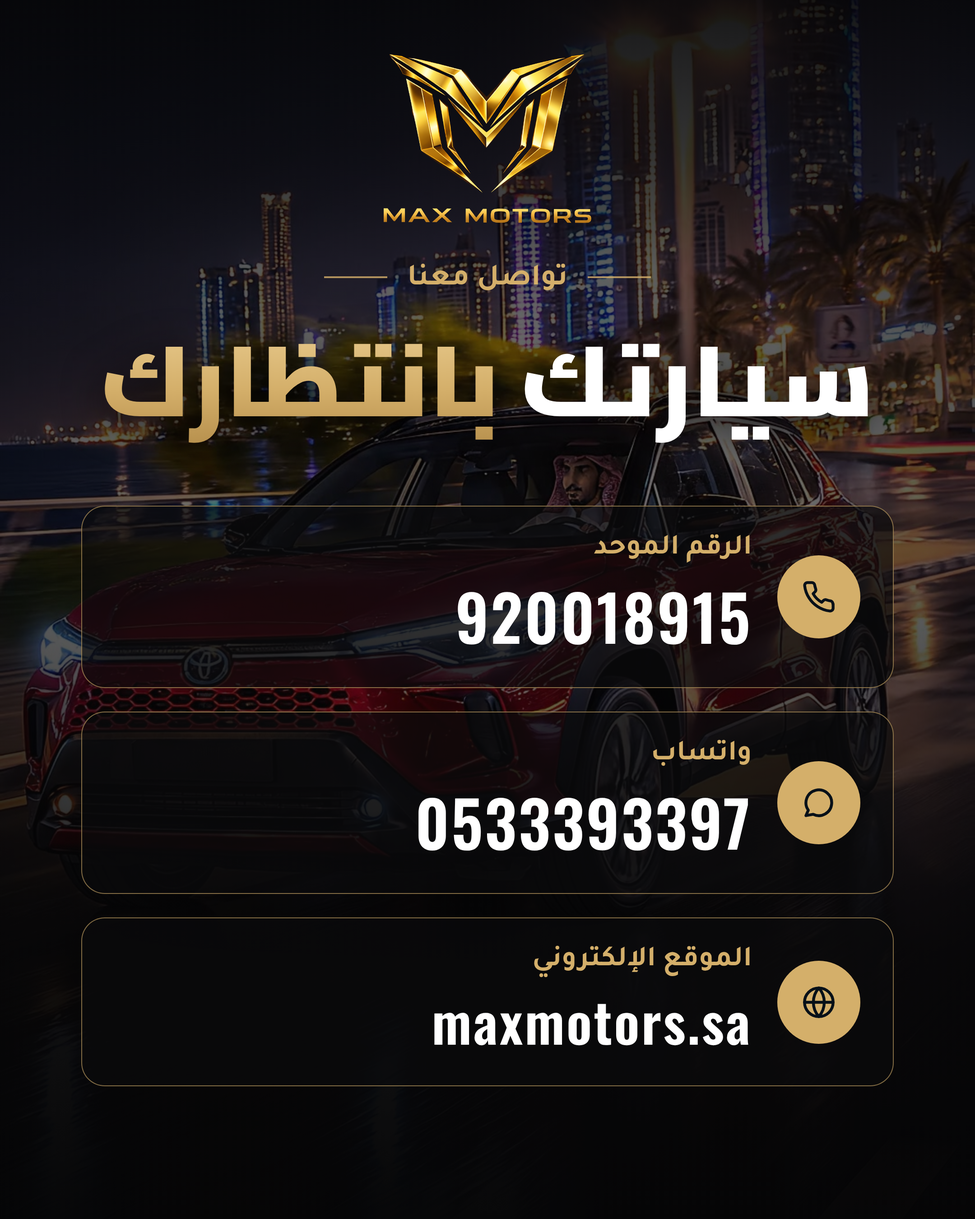
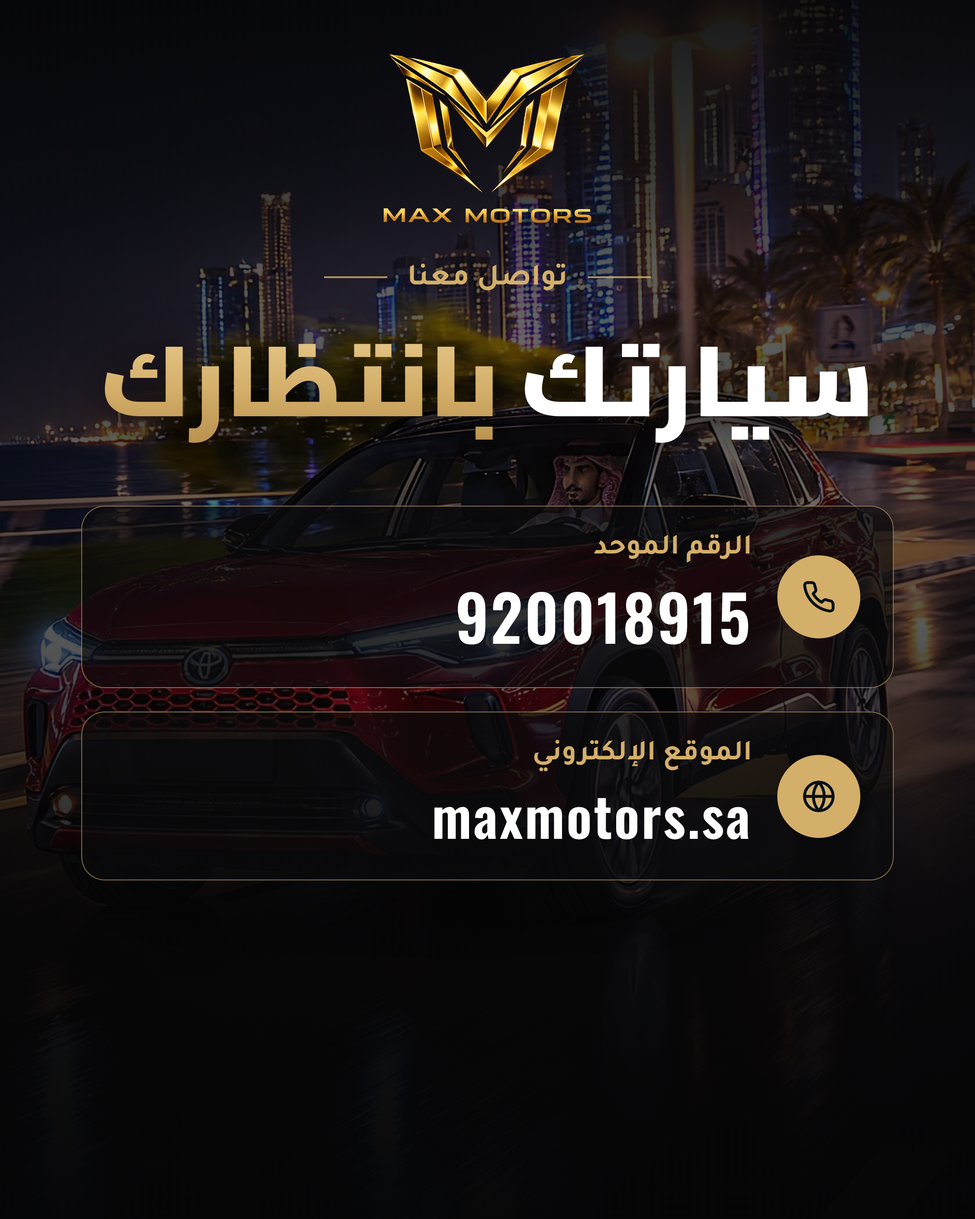
Offers designs: remove the WhatsApp number (call number and website only)
Claude-Session: https://claude.ai/code/session_013TYQJG1dCkVjYNVz2U9GyP

diff --git a/production/code/promo/post.html b/production/code/promo/post.html
@@ -30,7 +30,7 @@
   .li .ck{flex:none;width:52px;height:52px;border-radius:50%;background:var(--gold);display:flex;align-items:center;justify-content:center}
   .bar{position:absolute;left:0;right:0;bottom:0;padding:26px 44px 30px;background:linear-gradient(180deg,rgba(5,5,6,0),rgba(5,5,6,.92) 30%);}
   .bar .ln{height:2px;background:linear-gradient(90deg,transparent,var(--gold),transparent);margin-bottom:22px}
-  .row{display:flex;justify-content:center;align-items:center;gap:34px;direction:ltr}
+  .row{display:flex;justify-content:center;align-items:center;gap:70px;direction:ltr}
   .it{display:flex;align-items:center;gap:12px;font:600 40px Oswald;letter-spacing:1px;color:#fff}
   .it small{font:700 26px Tajawal;color:var(--gold);letter-spacing:0;margin-left:4px}
   .terms{text-align:center;font:500 22px Tajawal;color:#B9B2A6;margin-top:16px}
@@ -81,12 +81,11 @@ if (d.contact) {
   h += `<div class="kick" style="top:${L.chead - 70}px">${d.kick}</div><div class="head" style="top:${L.chead}px;font-size:110px">${d.head}</div>
   <div class="cards" style="top:${L.cards}px">
     <div class="cd"><span class="ic">${ic.phone.replace(/#D4AF6A/g, ink)}</span><span class="tx"><span class="lb">الرقم الموحد</span><span class="vl">920018915</span></span></div>
-    <div class="cd"><span class="ic">${ic.wa.replace(/#D4AF6A/g, ink)}</span><span class="tx"><span class="lb">واتساب</span><span class="vl">0533393397</span></span></div>
     <div class="cd"><span class="ic">${ic.web.replace(/#D4AF6A/g, ink)}</span><span class="tx"><span class="lb">الموقع الإلكتروني</span><span class="vl" style="font-size:60px">maxmotors.sa</span></span></div>
   </div>`;
 } else {
   h += `<div class="bar"><div class="ln"></div><div class="row">
-    <span class="it">${ic.phone}920018915</span><span class="it">${ic.wa}0533393397</span><span class="it">${ic.web}maxmotors.sa</span></div>
+    <span class="it">${ic.phone}920018915</span><span class="it">${ic.web}maxmotors.sa</span></div>
     ${d.terms ? '<div class="terms">*تطبّق الشروط والأحكام</div>' : ''}</div>`;
 }
 c.innerHTML = h;
